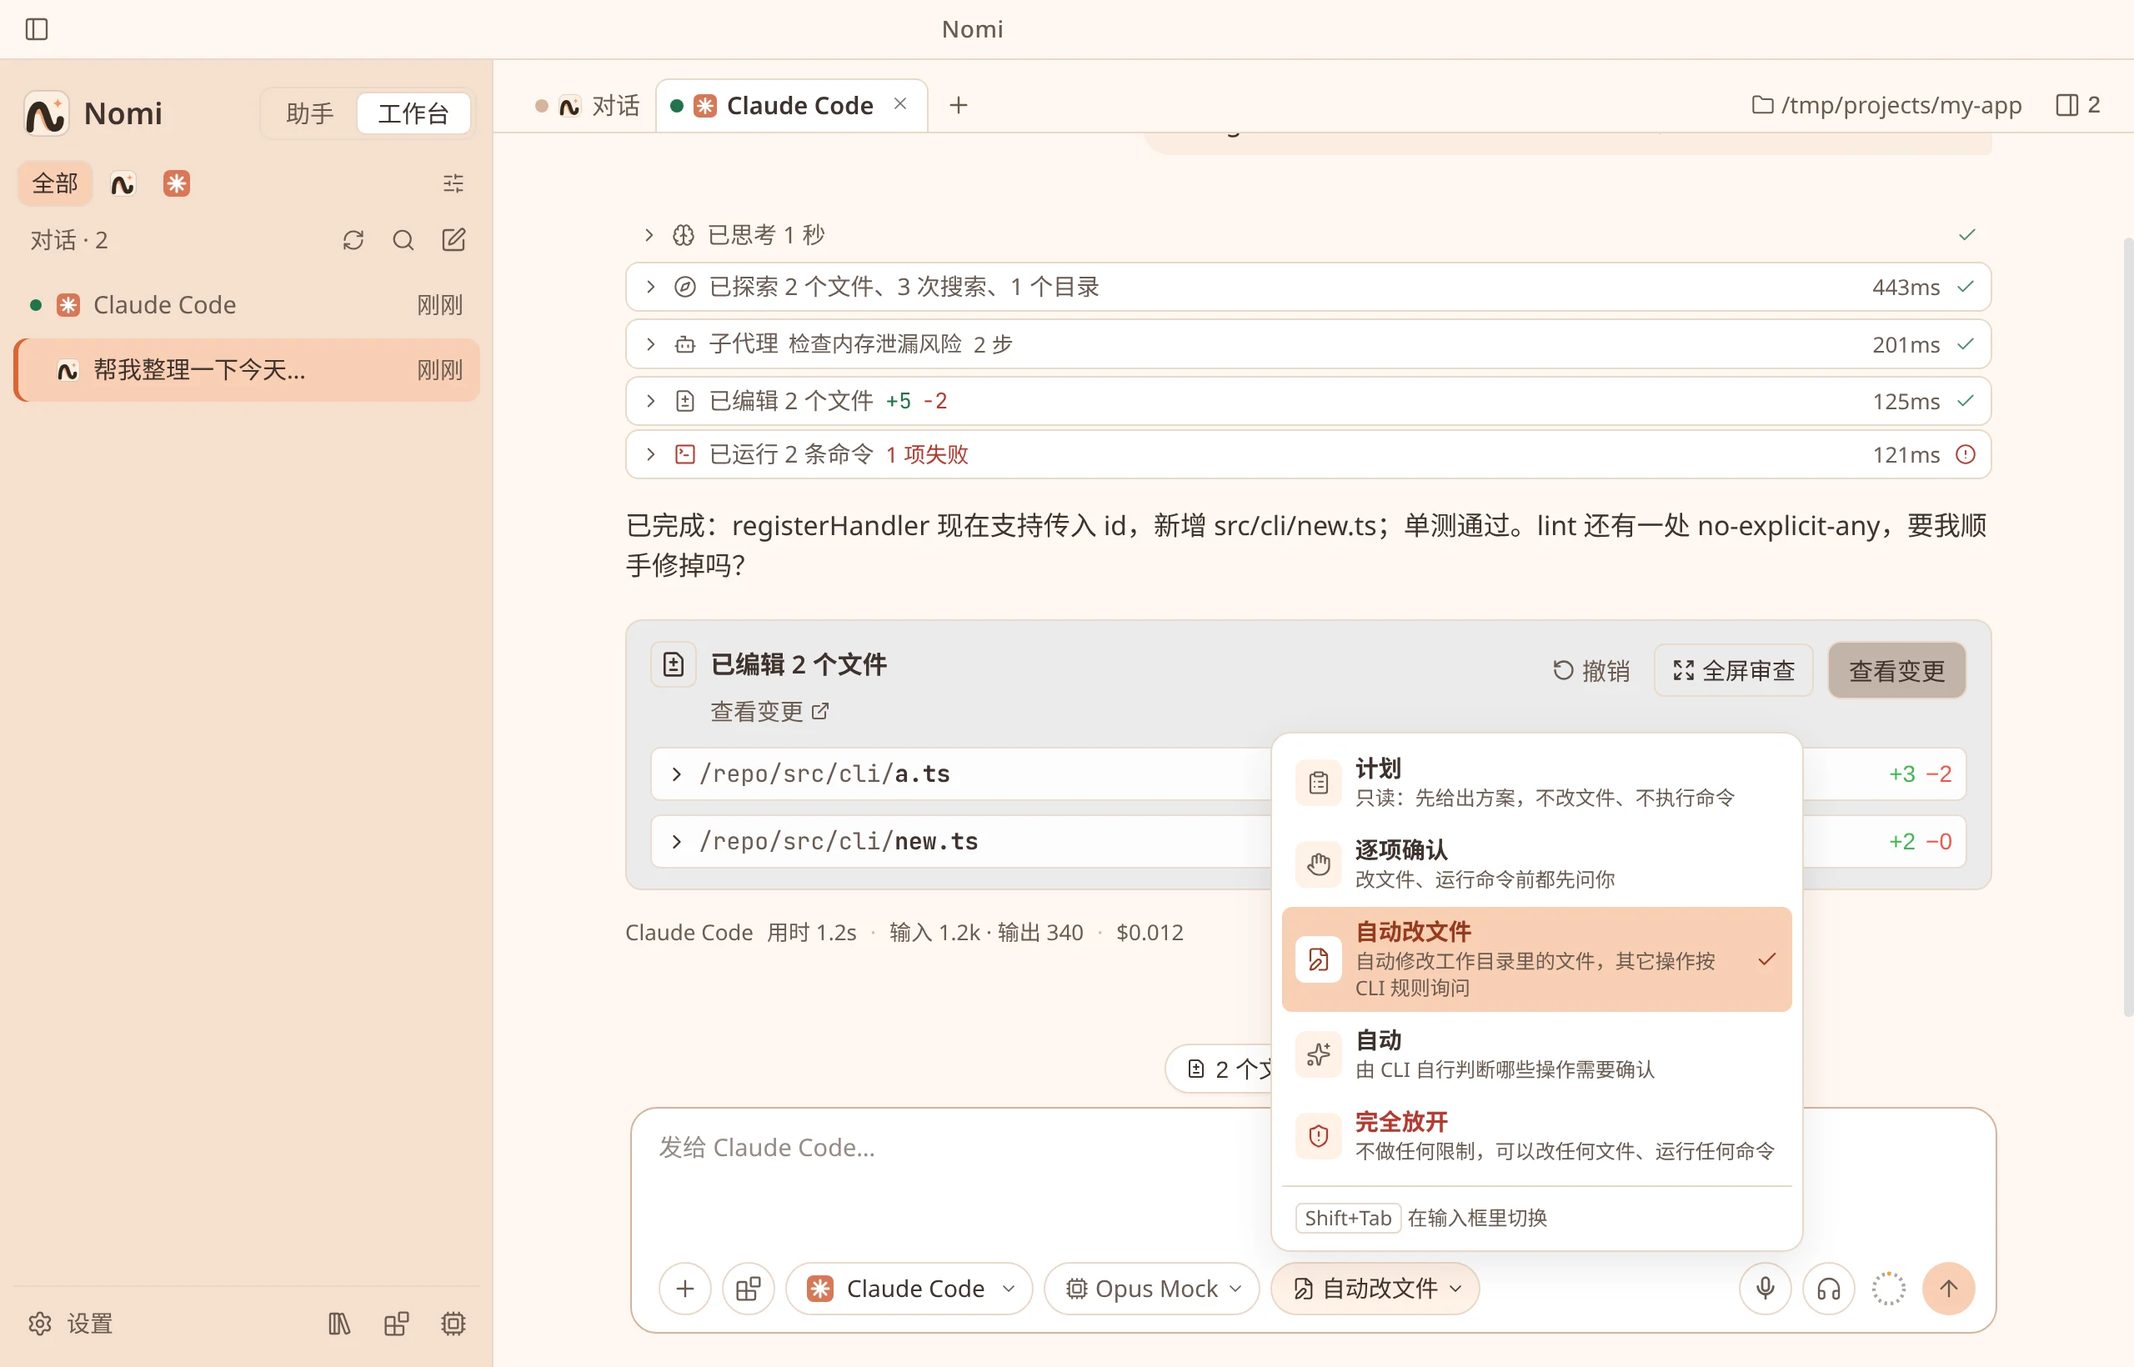
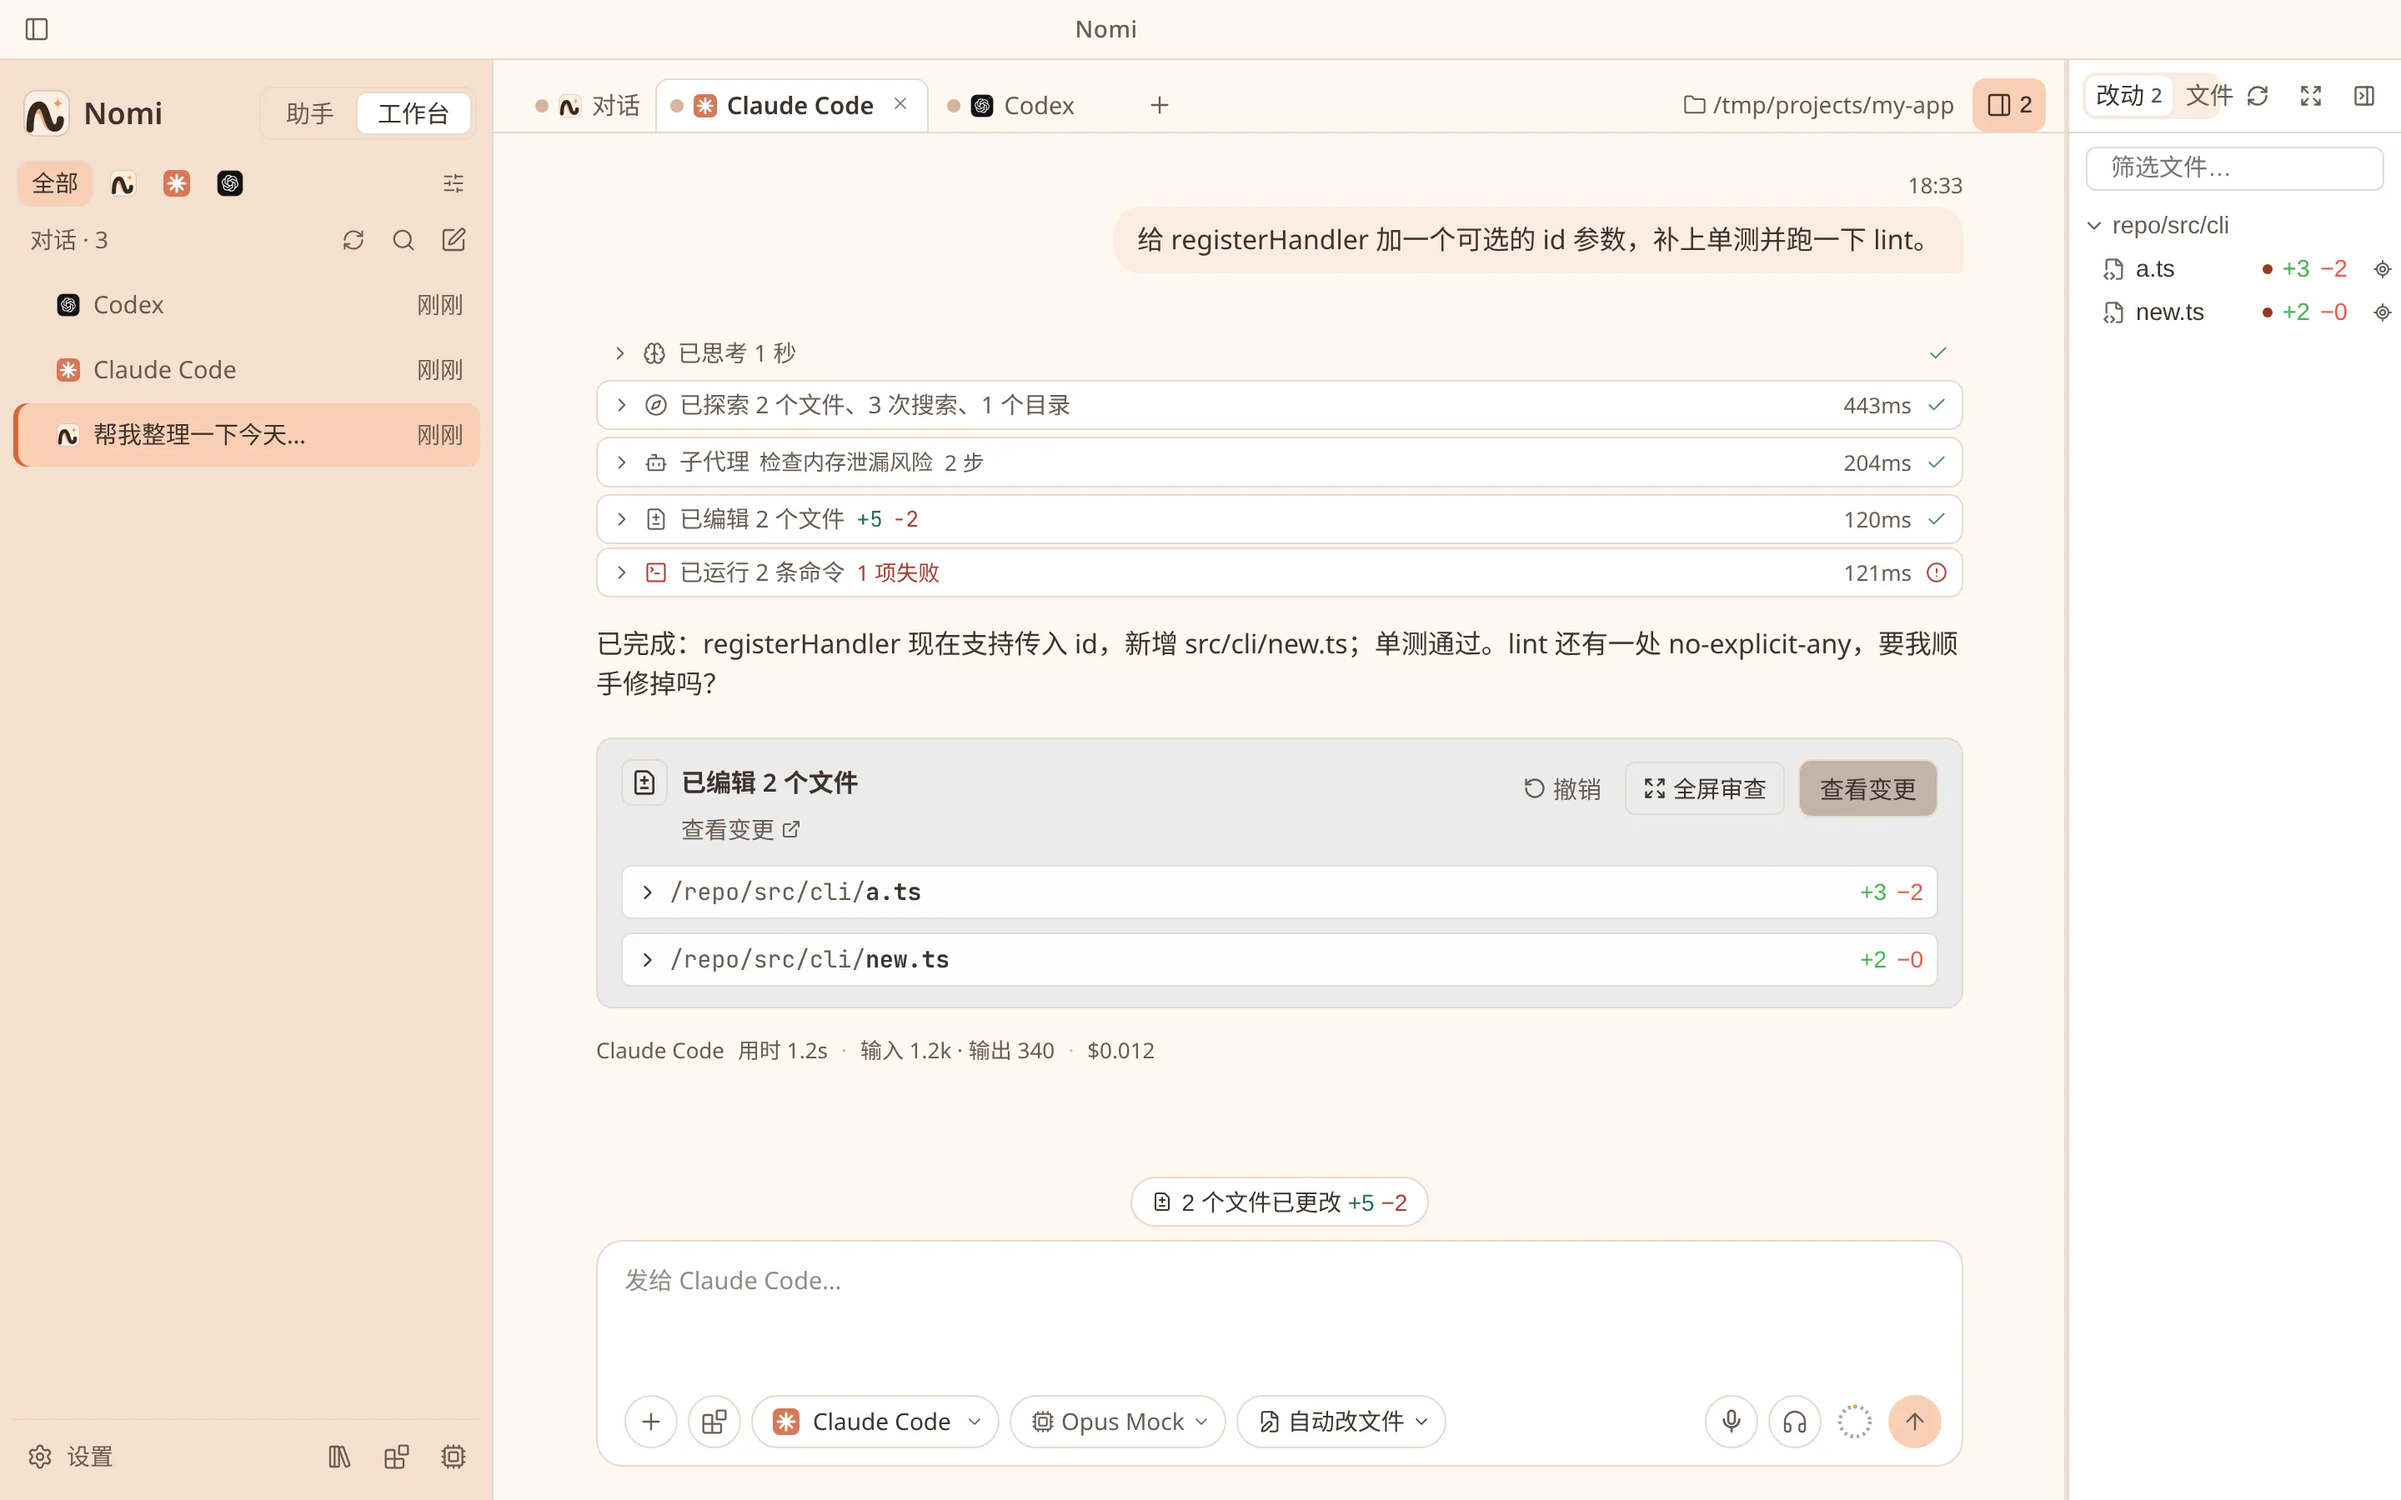
Site: restore hero CTA colors, recapture workbench screenshot, drop privacy glow, tighten mobile pillars

diff --git a/css/styles.css b/css/styles.css
@@ -1569,3 +1569,30 @@ a:hover { color: var(--app-accent-strong); }
 .cpop { background: var(--app-surface); border: 1px solid var(--app-border); border-radius: 16px; box-shadow: var(--nomi-shadow-lg); color: var(--app-text); }
 .cpop-close { background: var(--app-surface-sunken); color: var(--app-text); }
 .cpop-grid img { border: 1px solid var(--app-border-subtle); border-radius: 12px; background: var(--app-bg); }
+
+/* Hero is kept exactly as the original design: restore its legacy tokens + button look. */
+.hero {
+  --nomi-orange: #FB9466; --nomi-hover: #F17F4E; --nomi-peach: #F7A67C; --nomi-peach-soft: #FDBA94;
+  --nomi-cream: #FCEFE1; --nomi-cream-deep: #F5E4D0; --nomi-ink: #33291F; --nomi-ink-on-accent: #2a211a;
+  --nomi-warm-gray: #6E5F4E; --nomi-white: #FFFBF7; --nomi-card: #FFF9F3;
+  --nomi-border: rgba(51, 41, 31, 0.09); --nomi-border-strong: rgba(51, 41, 31, 0.14);
+  --nomi-shadow: 0 8px 28px rgba(51, 41, 31, 0.08); --nomi-shadow-lg: 0 20px 56px rgba(51, 41, 31, 0.14);
+  --nomi-glow: 0 0 80px rgba(251, 148, 102, 0.35);
+  color: #33291F;
+}
+.hero .btn { border-radius: 999px; font-weight: 700; min-height: 0; border: 2px solid transparent; }
+.hero .btn-primary { background: #FB9466; color: #2a211a; border-color: transparent; box-shadow: 0 4px 18px rgba(251, 148, 102, 0.4); }
+.hero .btn-primary:hover { background: #F17F4E; color: #2a211a; box-shadow: 0 6px 22px rgba(241, 127, 78, 0.45); }
+.hero .btn-secondary { background: transparent; border-color: #33291F; color: #33291F; }
+.hero .btn-secondary:hover { background: #33291F; color: #FCEFE1; }
+.hero a:not(.btn) { color: #F17F4E; }
+
+.callout::before, .callout::after { display: none !important; }
+
+@media (max-width: 480px) {
+  .pillars .pillar { padding: 14px 10px 16px; }
+  .pillars .icon-star { width: 24px; height: 24px; border-radius: 7px; }
+  .pillars .icon-star svg { width: 12px; height: 12px; }
+  .pillars .pillar h3 { font-size: 13.5px; margin: 8px 0 4px; letter-spacing: -0.01em; }
+  .pillars .pillar p { font-size: 11.5px; line-height: 1.5; }
+}

diff --git a/js/i18n.js b/js/i18n.js
@@ -272,7 +272,7 @@
       "spot.coding.label": "工作台模式",
       "spot.coding.title": "工作台：所有编程助手，一个窗口",
       "spot.coding.desc": "切到工作台模式，Claude Code、Codex、Gemini CLI、Grok、dsh 多标签并行；左中右三栏看会话、对话与改动，工具调用、diff 与子代理一目了然，权限与账号随手切换。",
-      "gallery.codingAlt": "工作台模式：随时切换编程助手的权限模式，改文件前先问你",
+      "gallery.codingAlt": "工作台模式：多个编程助手标签并行，左侧会话、中间对话、右侧改动与文件",
       "ft.coding.t": "编程助手",
       "ft.coding.1": "Claude Code、Codex、Gemini CLI、Grok、dsh 多标签并行。",
       "ft.coding.2": "工具调用、diff 与子代理清晰可见；权限模式一键切换。",
@@ -617,7 +617,7 @@
       "spot.coding.label": "Workbench mode",
       "spot.coding.title": "Workbench: every coding agent, one window",
       "spot.coding.desc": "Switch to Workbench mode: Claude Code, Codex, Gemini CLI, Grok and dsh in parallel tabs; three columns for sessions, chat and changes, with tool calls, diffs and subagents at a glance and permissions and accounts a click away.",
-      "gallery.codingAlt": "Workbench mode: switch a coding agent's permission mode; it asks before editing files",
+      "gallery.codingAlt": "Workbench mode: coding agents side by side in tabs — sessions on the left, chat in the middle, changes and files on the right",
       "ft.coding.t": "Coding agents",
       "ft.coding.1": "Claude Code, Codex, Gemini CLI, Grok and dsh in parallel tabs.",
       "ft.coding.2": "Clear tool calls, diffs and subagents; switch permission modes in one click.",

diff --git a/index.html b/index.html
@@ -156,7 +156,7 @@
             <p data-i18n="spot.coding.desc">切到工作台模式，Claude Code、Codex、Gemini CLI、Grok、dsh 多标签并行；工具调用、diff 与子代理一目了然，权限与账号随手切换。</p>
           </div>
           <div class="spotlight-media">
-            <img src="assets/screenshots/workspace.webp?v=20261025a" srcset="assets/screenshots/workspace-640.webp?v=20261025a 640w, assets/screenshots/workspace.webp?v=20261025a 1280w" sizes="(max-width: 800px) calc(100vw - 2.5rem), 560px" data-i18n-alt="gallery.codingAlt" alt="工作台模式：随时切换编程助手的权限模式，改文件前先问你" width="1280" height="820" loading="lazy" decoding="async" />
+            <img src="assets/screenshots/workspace.webp?v=20261025a" srcset="assets/screenshots/workspace-640.webp?v=20261025a 640w, assets/screenshots/workspace.webp?v=20261025a 1280w, assets/screenshots/workspace-2x.webp?v=20261025a 2880w" sizes="(max-width: 800px) calc(100vw - 2.5rem), 560px" data-i18n-alt="gallery.codingAlt" alt="工作台模式：多个编程助手标签并行，左侧会话、中间对话、右侧改动与文件" width="1280" height="800" loading="lazy" decoding="async" />
           </div>
         </div>
       </div>
